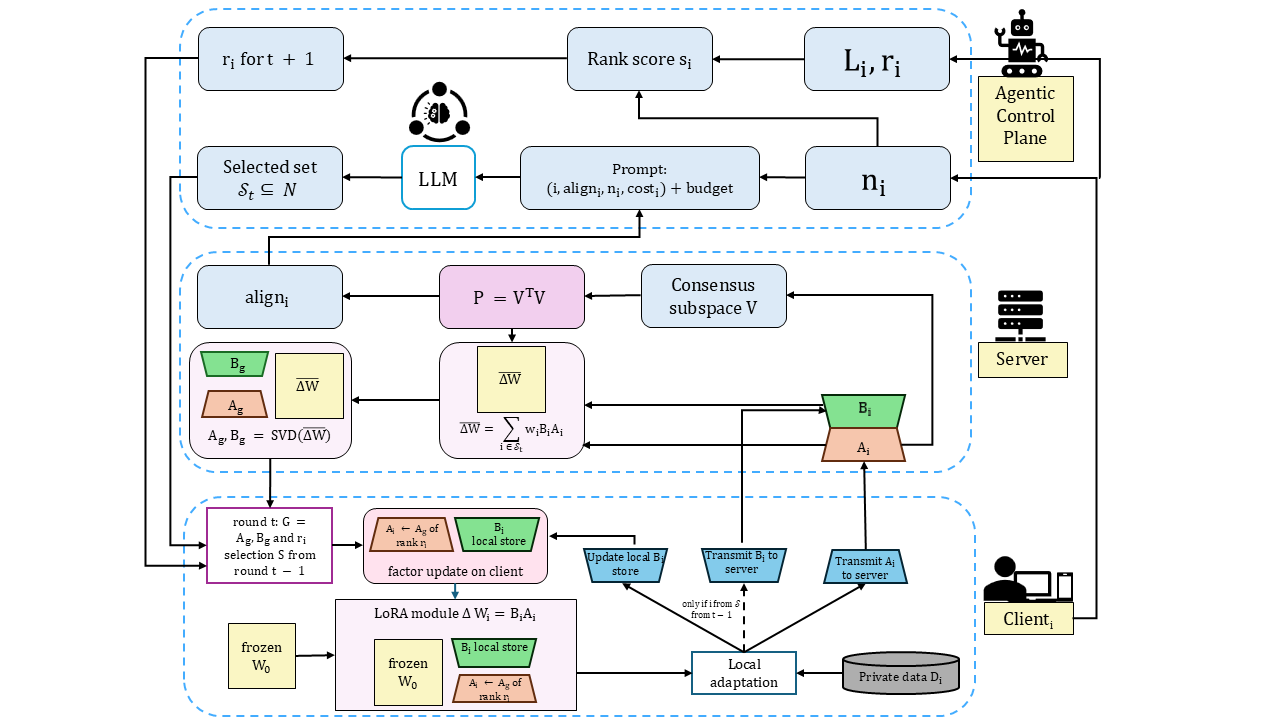
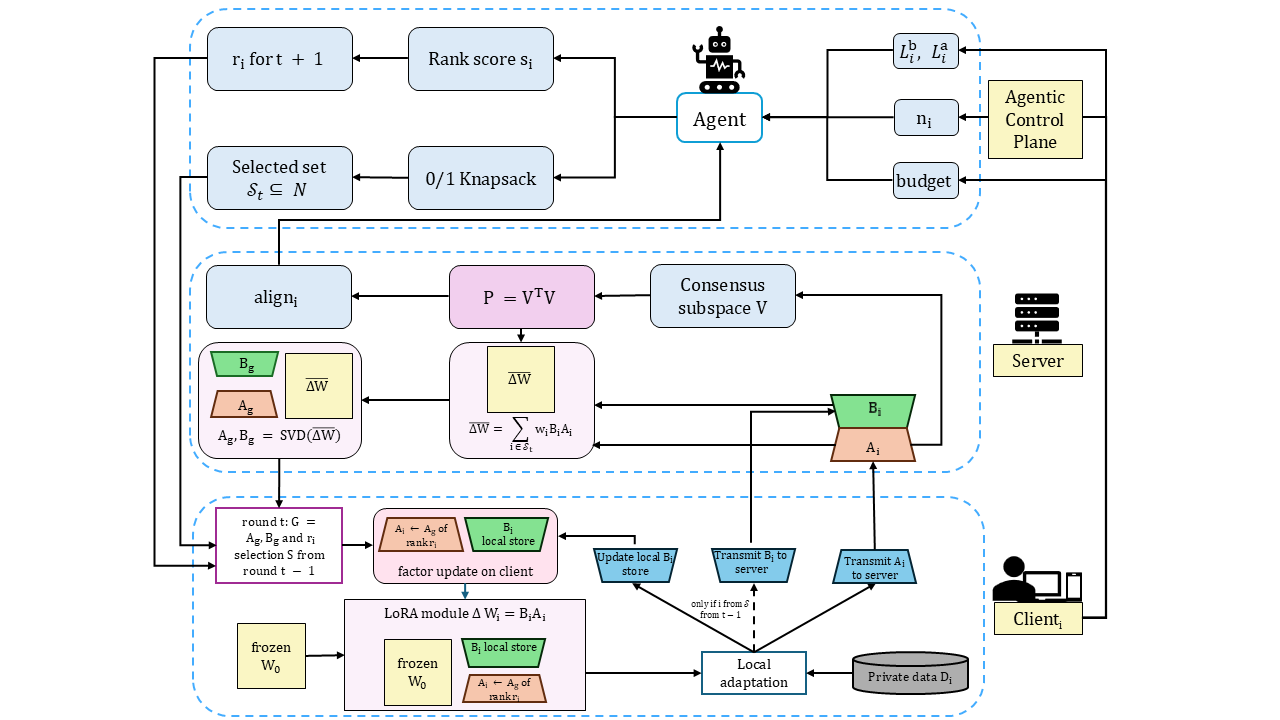
chore: update README

diff --git a/README.md b/README.md
@@ -1,9 +1,6 @@
-<p align="center">
-  <p align="center">
-    Federated Agentic LoRA for Constrained Optimization Networks
-  </p>
-</p>
-An agent-guided selective-sharing framework for communication-efficient federated LoRA fine-tuning of Large Language Models.
+# FALCON
+
+**Federated Agentic LoRA for Constrained Optimization Networks**
 ---
 
 ## Architecture
@@ -12,15 +9,18 @@ An agent-guided selective-sharing framework for communication-efficient federate
   <img src="images/architecture_diagram.png" alt="FALCON Architecture" width="900">
 </p>
 
-FALCON consists of three components:
+FALCON has three components:
 
 | Component | Role |
 |---|---|
-| **Client** | Fine-tunes local LoRA adapters on private data. Uploads A always; uploads B only if selected. |
-| **Server** | Constructs a consensus subspace from all A matrices, aggregates selected updates, factorizes into global adapters (A_g, B_g). |
-| **Agentic Control Plane** | Computes rank scores, allocates dynamic ranks, and employs a 0/1-knapsack algorithm to select the B-upload subset S_t under a communication budget. |
+| **Client** | Fine-tunes local LoRA adapters on private data. Always uploads `A`; uploads `B` only if selected. |
+| **Server** | Builds a consensus subspace from all `A` matrices via SVD, aggregates the selected `B`-clients' updates, and factorizes the result into global adapters `(A_g, B_g)`. |
+| **Agentic Control Plane** | Computes dynamic rank scores and solves an exact 0/1 knapsack, maximizing total alignment subject to the round's communication budget, to choose which clients upload `B` next round. |
+
+Baselines (FedIT, FedSA, FlexLoRA) do not use the agent or dynamic ranks; they use fixed or data-ranked ranks and are included for comparison (see [Running Baselines](#running-baselines)).
 
 ---
+
 ## Installation
 
 ```bash
@@ -33,31 +33,25 @@ python -m venv .venv
 pip install -r requirements.txt
 ```
 
-### Selection Agent
-
-The B-upload subset is chosen by an exact 0/1-knapsack solve: maximize total `align` subject to the round's communication `budget` (cost = client rank).
-
-> **Note:** The agent is required for the FALCON strategy. Baselines (FedIT, FedSA, FlexLoRA) do not use the agent.
-
 ---
 
 ## Quick Start
 
 ```bash
-# 1. Verify the core merge math (no GPU required):
+# 1. Verify the core merge math (no GPU required)
 python scripts/check_merge.py
 
-# 2. Run the full FALCON pipeline (requires GPU):
+# 2. Run the full FALCON pipeline (requires GPU)
 python main.py
 ```
 
-Results are written to a timestamped folder under `output/`, containing:
+Each run writes to a timestamped folder under `output/`:
 
 | File | Contents |
 |---|---|
 | `run.log` | Full console log |
 | `config.json` | Exact configuration used |
-| `metrics.csv` | Per-round: mean eval loss, communication cost, # B-uploaders |
+| `metrics.csv` | Per-round: mean eval loss, communication cost, number of `B`-uploaders |
 | `per_client_eval.csv` | Per-round, per-client eval loss |
 | `summary.json` | Final eval loss and total communication cost |
 
@@ -73,17 +67,17 @@ All settings live in [`falcon/config.py`](falcon/config.py). Key parameters:
 | `client_model_name` | `"Qwen/Qwen3-0.6B-Base"` | Base model for LoRA fine-tuning |
 | `lora_target_modules` | `[q, k, v, o_proj]` | Self-attention modules to attach LoRA |
 | `lora_dropout` | `0.05` | LoRA dropout rate |
-| `rank_pool` | `[4, 8, 16, 32]` | Discrete rank pool R for FALCON; single-value list for fixed-rank baselines |
-| `rank_alpha / beta / gamma` | `0.3 / 0.3 / 0.4` | Rank-score weights: data scale, learning difficulty, consensus novelty |
+| `rank_pool` | `[4, 8, 16, 32]` | Discrete rank pool for FALCON; single-value list for fixed-rank baselines |
+| `rank_alpha` / `rank_beta` / `rank_gamma` | `0.3` / `0.3` / `0.4` | Rank-score weights: data scale, learning difficulty, consensus novelty |
 | `num_clients` | `8` | Number of federated clients |
-| `num_rounds` | `20` | Communication rounds T |
+| `num_rounds` | `20` | Communication rounds (`T`) |
 | `local_epochs` | `1` | Local training epochs per round |
 | `local_lr` | `2e-4` | AdamW learning rate |
 | `max_seq_len` | `1024` | Maximum sequence length |
-| `b_budget_fraction` | `0.4` | Fraction of total rank capacity allocated as B-upload budget (f_B) |
+| `b_budget_fraction` | `0.4` | Fraction of total rank capacity allocated to `B`-uploads (`f_B`) |
 | `data_path` | `"databricks/databricks-dolly-15k"` | Hugging Face dataset path |
 | `eval_fraction` | `0.1` | Hold-out fraction for local evaluation |
-| `num_gpus_per_client` | `1.0` | GPU fraction per simulated client (0 for CPU-only) |
+| `num_gpus_per_client` | `1.0` | GPU fraction per simulated client (`0` for CPU-only) |
 
 ---
 
@@ -92,20 +86,20 @@ All settings live in [`falcon/config.py`](falcon/config.py). Key parameters:
 Switch between methods by changing `baseline_method` in [`falcon/config.py`](falcon/config.py):
 
 ```python
-# FALCON (default) — dynamic rank + selective B + knapsack agent
+# FALCON (default): dynamic rank + selective B + knapsack agent
 baseline_method = "falcon"
 rank_pool = [4, 8, 16, 32]
 b_budget_fraction = 0.4          # try 0.1, 0.4, 0.8
 
-# FedIT — fixed rank, all clients upload A+B every round
+# FedIT: fixed rank, all clients upload A+B every round
 baseline_method = "fedit"
 rank_pool = [8]                   # single fixed rank
 
-# FedSA — fixed rank, only A is shared, B stays local
+# FedSA: fixed rank, only A is shared, B stays local
 baseline_method = "fedsa"
 rank_pool = [16]                  # single fixed rank
 
-# FlexLoRA — heterogeneous ranks, all clients upload A+B
+# FlexLoRA: heterogeneous ranks, all clients upload A+B
 baseline_method = "flexlora"
 rank_pool = [2, 4, 6, 8, 10, 12, 14, 16]  # one rank per client
 ```
@@ -120,18 +114,22 @@ python main.py
 
 ## Results
 
-### Communication–Performance Trade-off
+Experiments fine-tune `Qwen/Qwen3-0.6B-Base` on Databricks Dolly-15k, partitioned by task category across 8 non-IID clients, for 20 communication rounds. Full experimental setup and discussion are in the paper (Section 4).
 
-Final evaluation loss and cumulative communication cost after T = 20 rounds:
+### Communication-Performance Trade-off
+
+Final evaluation loss and cumulative communication cost after 20 rounds:
 
 | Method | Final Loss (L_eval) | Comm. Cost | Avg. B Uploads / Round |
 |---|---|---|---|
 | FedIT (r = 8) | 0.3716 | 2560 | 8.00 |
 | FedSA (r = 16) | 0.4741 | 2560 | 0.00 |
 | FlexLoRA | 0.3715 | 2880 | 8.00 |
-| **FALCON** (f_B = 0.1) | 0.3847 | 1304 | 1.05 |
-| **FALCON** (f_B = 0.4) | 0.3803 | 1616 | 3.10 |
-| **FALCON** (f_B = 0.8) | 0.3781 | 2100 | 5.65 |
+| **FALCON** (f_B = 0.1) | 0.3820 | **1292** | 1.05 |
+| **FALCON** (f_B = 0.4) | 0.3777 | 1708 | 3.35 |
+| **FALCON** (f_B = 0.8) | 0.3723 | 2136 | 6.05 |
+
+At `f_B = 0.4`, FALCON uses 33.28% less cumulative communication than FedIT and FedSA, and 40.69% less than FlexLoRA, while keeping the final evaluation loss within 0.01 of the strongest baseline (FlexLoRA) and clearly below FedSA.
 
 ### Evaluation Loss Over Communication Rounds
 
@@ -139,4 +137,4 @@ Final evaluation loss and cumulative communication cost after T = 20 rounds:
   <img src="images/loss_curves.png" alt="Mean evaluation loss over communication rounds" width="900">
 </p>
 
-Mean evaluation loss over communication rounds under sample-proportional aggregation. A logarithmic y-axis is used to show both the warmup rounds and the post-warmup loss range in a single plot.
+Mean evaluation loss over communication rounds under sample-proportional aggregation. A logarithmic y-axis shows both the warmup rounds and the post-warmup loss range in a single plot.
